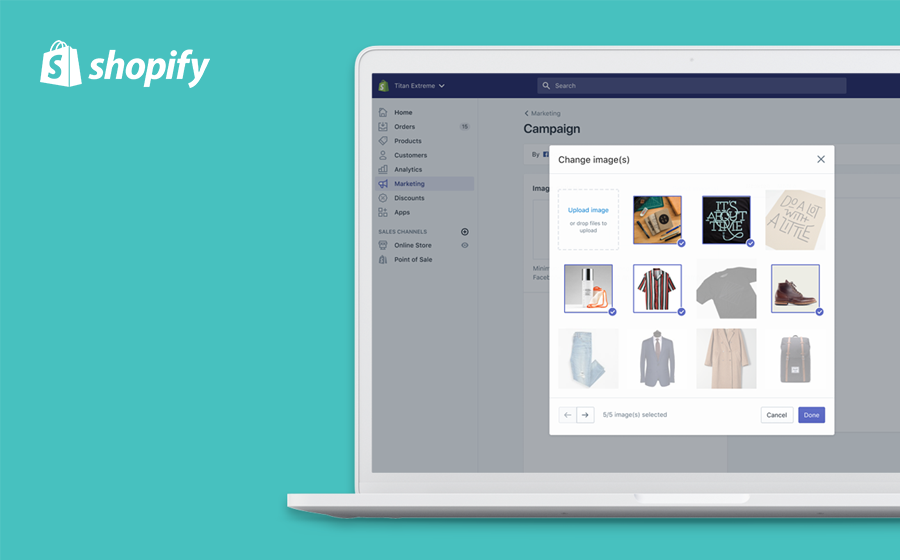
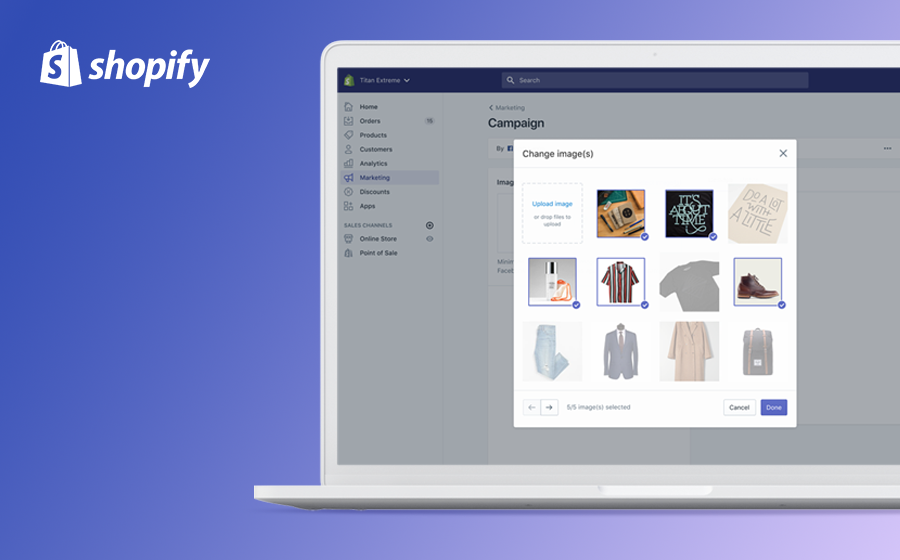
new hero imgs

diff --git a/index.html b/index.html
@@ -99,7 +99,7 @@
 			<div class="work">
 				<div class="card">
 					<a href="https://daniellyang.github.io/imagePicker.html" style="text-decoration: none;">
-						<img src="home img/imagepicker 1.png" style="width:100%;">
+						<img src="home img/imagepicker.png" style="width:100%;">
 
 						<div class="overlay">
 							<div class="overlay-content">

diff --git a/imagePicker.html b/imagePicker.html
@@ -70,7 +70,7 @@
 		</div>
 
 		<!--Full width hero-->
-		<img class="hero" src="imagePicker img/img picker hero1.png">
+		<img class="hero" src="imagePicker img/img picker hero alt.png">
 	</div>
 
 	<!--Project intro-->
